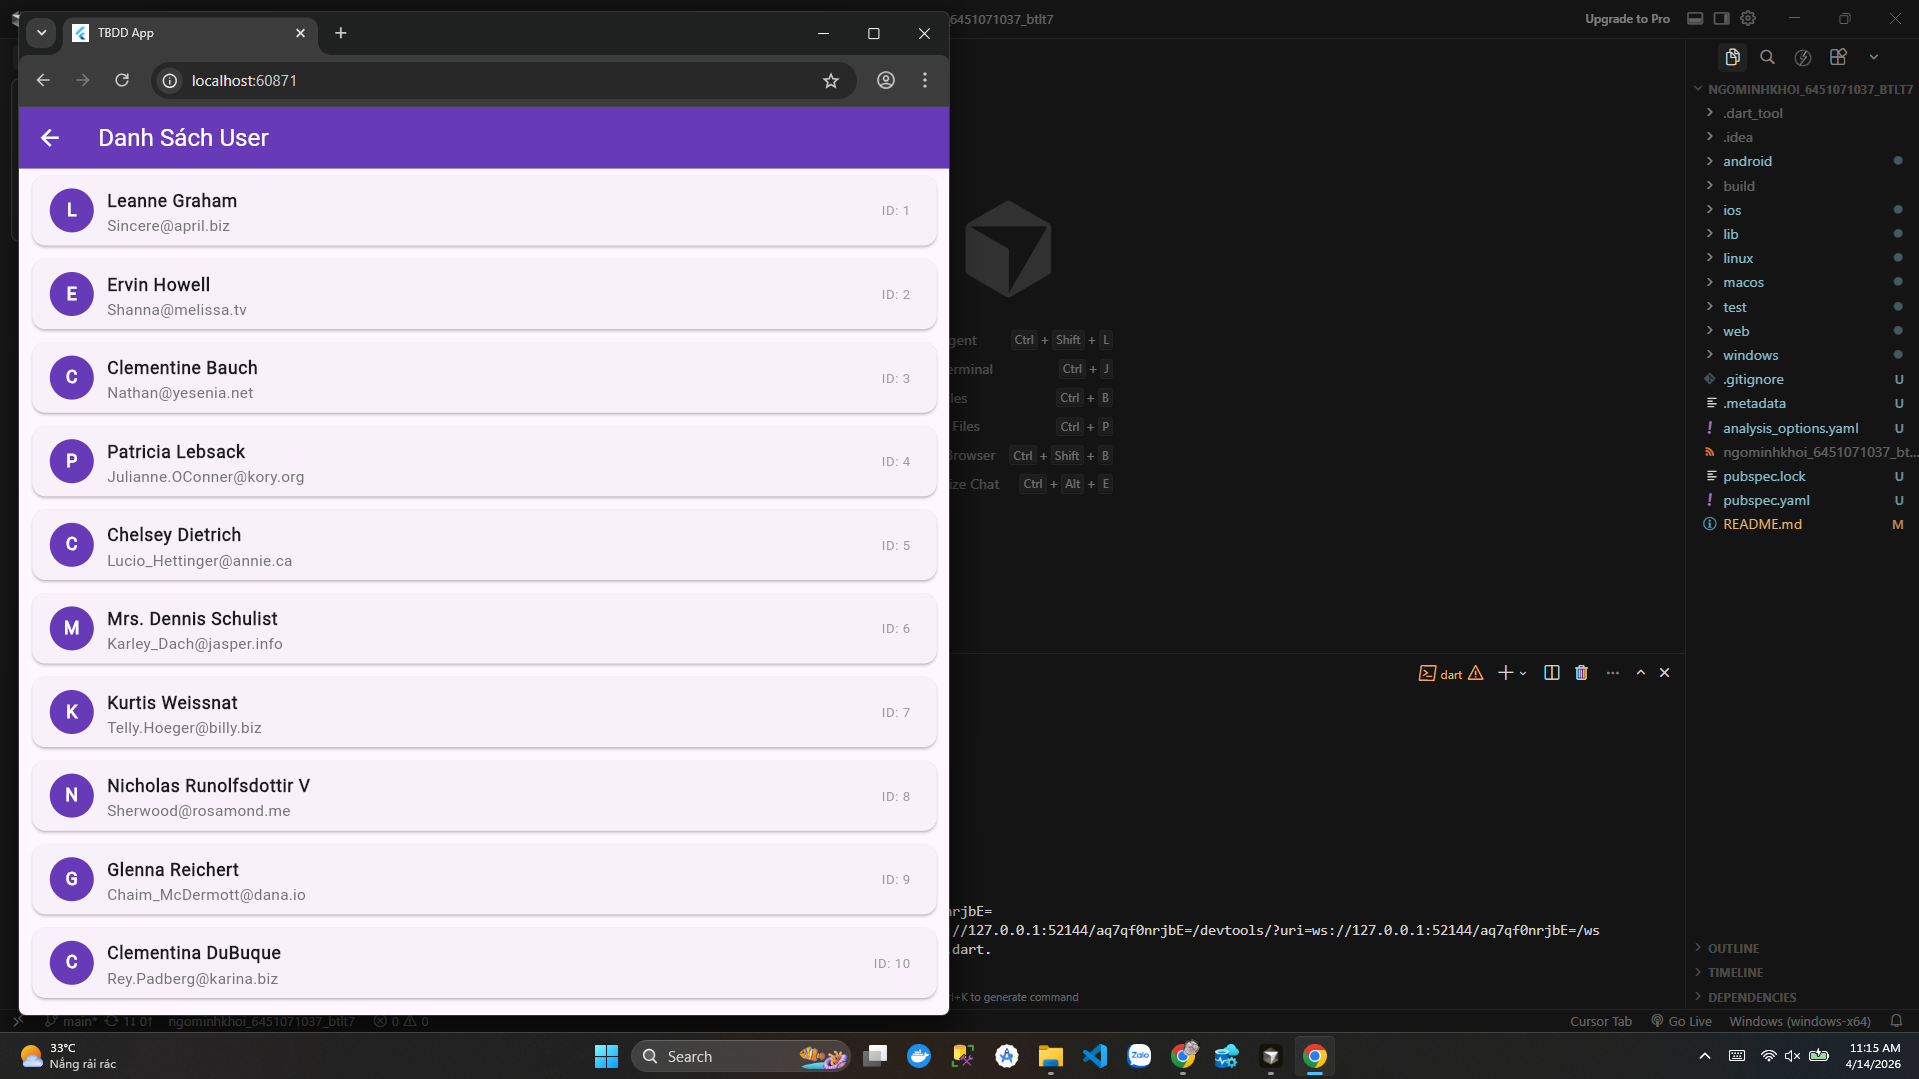
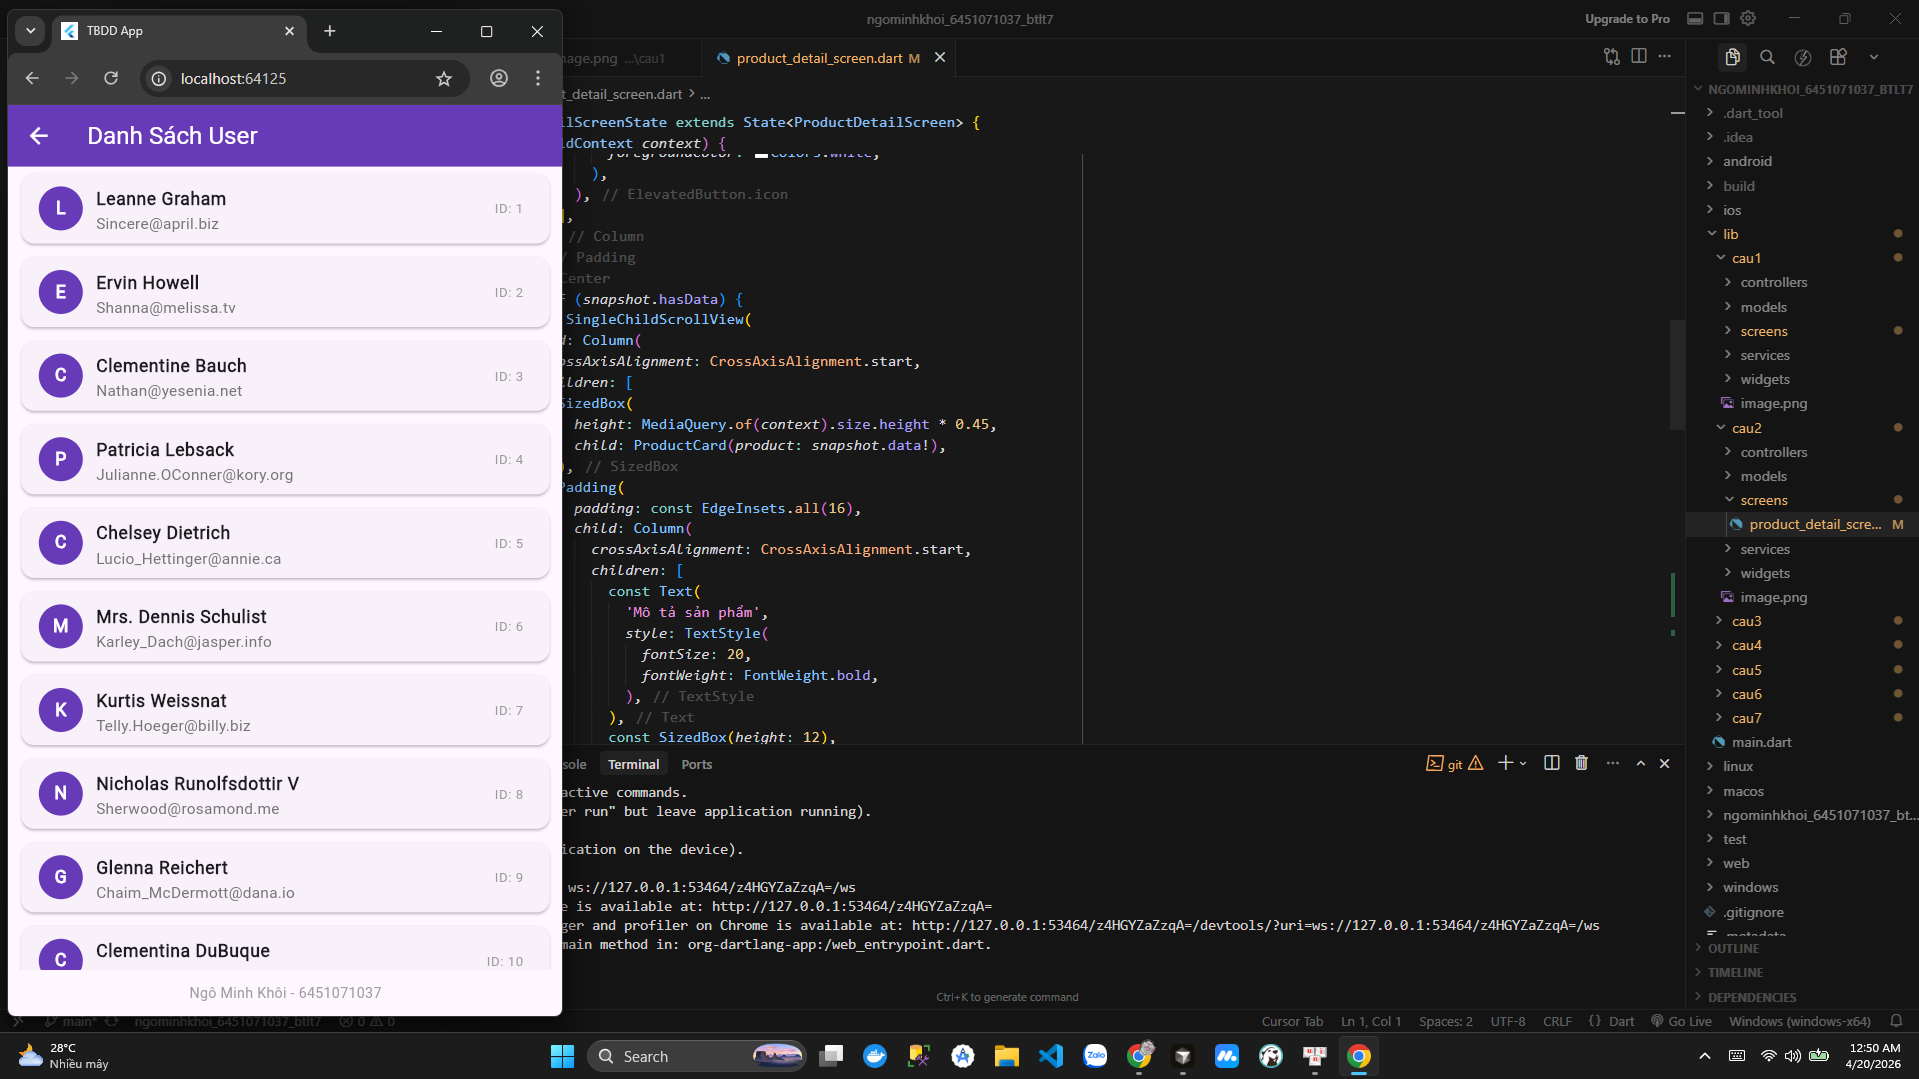
xong

diff --git a/lib/cau1/screens/user_list_screen.dart b/lib/cau1/screens/user_list_screen.dart
@@ -21,43 +21,60 @@ class _UserListScreenState extends State<UserListScreen> {
         backgroundColor: Colors.deepPurple,
         foregroundColor: Colors.white,
       ),
-      body: FutureBuilder<List<User>>(
-        future: _userController.loadUsers(),
-        builder: (context, snapshot) {
-          if (snapshot.connectionState == ConnectionState.waiting) {
-            return const Center(
-              child: CircularProgressIndicator(),
-            );
-          } else if (snapshot.hasError) {
-            return Center(
-              child: Column(
-                mainAxisAlignment: MainAxisAlignment.center,
-                children: [
-                  const Icon(Icons.error_outline, size: 64, color: Colors.red),
-                  const SizedBox(height: 16),
-                  Text(
-                    'Lỗi: ${snapshot.error}',
-                    textAlign: TextAlign.center,
-                    style: const TextStyle(color: Colors.red),
-                  ),
-                  const SizedBox(height: 16),
-                  ElevatedButton(
-                    onPressed: () => setState(() {}),
-                    child: const Text('Thử lại'),
-                  ),
-                ],
-              ),
-            );
-          } else if (snapshot.hasData) {
-            return ListView.builder(
-              itemCount: snapshot.data!.length,
-              itemBuilder: (context, index) {
-                return UserListItem(user: snapshot.data![index]);
+      body: Column(
+        children: [
+          Expanded(
+            child: FutureBuilder<List<User>>(
+              future: _userController.loadUsers(),
+              builder: (context, snapshot) {
+                if (snapshot.connectionState == ConnectionState.waiting) {
+                  return const Center(
+                    child: CircularProgressIndicator(),
+                  );
+                } else if (snapshot.hasError) {
+                  return Center(
+                    child: Column(
+                      mainAxisAlignment: MainAxisAlignment.center,
+                      children: [
+                        const Icon(Icons.error_outline, size: 64, color: Colors.red),
+                        const SizedBox(height: 16),
+                        Text(
+                          'Lỗi: ${snapshot.error}',
+                          textAlign: TextAlign.center,
+                          style: const TextStyle(color: Colors.red),
+                        ),
+                        const SizedBox(height: 16),
+                        ElevatedButton(
+                          onPressed: () => setState(() {}),
+                          child: const Text('Thử lại'),
+                        ),
+                      ],
+                    ),
+                  );
+                } else if (snapshot.hasData) {
+                  return ListView.builder(
+                    itemCount: snapshot.data!.length,
+                    itemBuilder: (context, index) {
+                      return UserListItem(user: snapshot.data![index]);
+                    },
+                  );
+                }
+                return const SizedBox.shrink();
               },
-            );
-          }
-          return const SizedBox.shrink();
-        },
+            ),
+          ),
+          Container(
+            padding: const EdgeInsets.symmetric(vertical: 12),
+            child: const Text(
+              'Ngô Minh Khôi - 6451071037',
+              style: TextStyle(
+                fontSize: 13,
+                color: Colors.grey,
+                fontWeight: FontWeight.w500,
+              ),
+            ),
+          ),
+        ],
       ),
     );
   }

diff --git a/lib/cau2/screens/product_detail_screen.dart b/lib/cau2/screens/product_detail_screen.dart
@@ -124,6 +124,19 @@ class _ProductDetailScreenState extends State<ProductDetailScreen> {
           return const SizedBox.shrink();
         },
       ),
+      bottomNavigationBar: Container(
+        padding: const EdgeInsets.symmetric(vertical: 12),
+        child: const Text(
+          'Ngô Minh Khôi - 6451071037',
+          textAlign: TextAlign.center,
+          style: TextStyle(
+            fontSize: 13,
+            color: Colors.grey,
+            fontWeight: FontWeight.w500,
+          ),
+        ),
+      ),
     );
   }
 }
+

diff --git a/lib/cau6/screens/product_search_screen.dart b/lib/cau6/screens/product_search_screen.dart
@@ -97,6 +97,18 @@ class _ProductSearchScreenState extends State<ProductSearchScreen> {
           Expanded(child: _buildBody()),
         ],
       ),
+      bottomNavigationBar: Container(
+        padding: const EdgeInsets.symmetric(vertical: 12),
+        child: const Text(
+          'Ngô Minh Khôi - 6451071037',
+          textAlign: TextAlign.center,
+          style: TextStyle(
+            fontSize: 13,
+            color: Colors.grey,
+            fontWeight: FontWeight.w500,
+          ),
+        ),
+      ),
     );
   }
 

diff --git a/lib/cau5/screens/task_list_screen.dart b/lib/cau5/screens/task_list_screen.dart
@@ -100,6 +100,18 @@ class _TaskListScreenState extends State<TaskListScreen> {
         ],
       ),
       body: _buildBody(),
+      bottomNavigationBar: Container(
+        padding: const EdgeInsets.symmetric(vertical: 12),
+        child: const Text(
+          'Ngô Minh Khôi - 6451071037',
+          textAlign: TextAlign.center,
+          style: TextStyle(
+            fontSize: 13,
+            color: Colors.grey,
+            fontWeight: FontWeight.w500,
+          ),
+        ),
+      ),
     );
   }
 

diff --git a/lib/cau3/screens/create_post_screen.dart b/lib/cau3/screens/create_post_screen.dart
@@ -212,6 +212,18 @@ class _CreatePostScreenState extends State<CreatePostScreen> {
           ],
         ),
       ),
+      bottomNavigationBar: Container(
+        padding: const EdgeInsets.symmetric(vertical: 12),
+        child: const Text(
+          'Ngô Minh Khôi - 6451071037',
+          textAlign: TextAlign.center,
+          style: TextStyle(
+            fontSize: 13,
+            color: Colors.grey,
+            fontWeight: FontWeight.w500,
+          ),
+        ),
+      ),
     );
   }
 }

diff --git a/lib/cau7/screens/news_screen.dart b/lib/cau7/screens/news_screen.dart
@@ -104,6 +104,18 @@ class _NewsScreenState extends State<NewsScreen> {
         ],
       ),
       body: _buildBody(),
+      bottomNavigationBar: Container(
+        padding: const EdgeInsets.symmetric(vertical: 12),
+        child: const Text(
+          'Ngô Minh Khôi - 6451071037',
+          textAlign: TextAlign.center,
+          style: TextStyle(
+            fontSize: 13,
+            color: Colors.grey,
+            fontWeight: FontWeight.w500,
+          ),
+        ),
+      ),
     );
   }
 

diff --git a/lib/cau4/screens/user_profile_screen.dart b/lib/cau4/screens/user_profile_screen.dart
@@ -415,6 +415,16 @@ class _UserProfileScreenState extends State<UserProfileScreen> {
             ),
           ),
         ),
+        const SizedBox(height: 20),
+        const Text(
+          'Ngô Minh Khôi - 6451071037',
+          textAlign: TextAlign.center,
+          style: TextStyle(
+            fontSize: 13,
+            color: Colors.grey,
+            fontWeight: FontWeight.w500,
+          ),
+        ),
       ],
     );
   }
